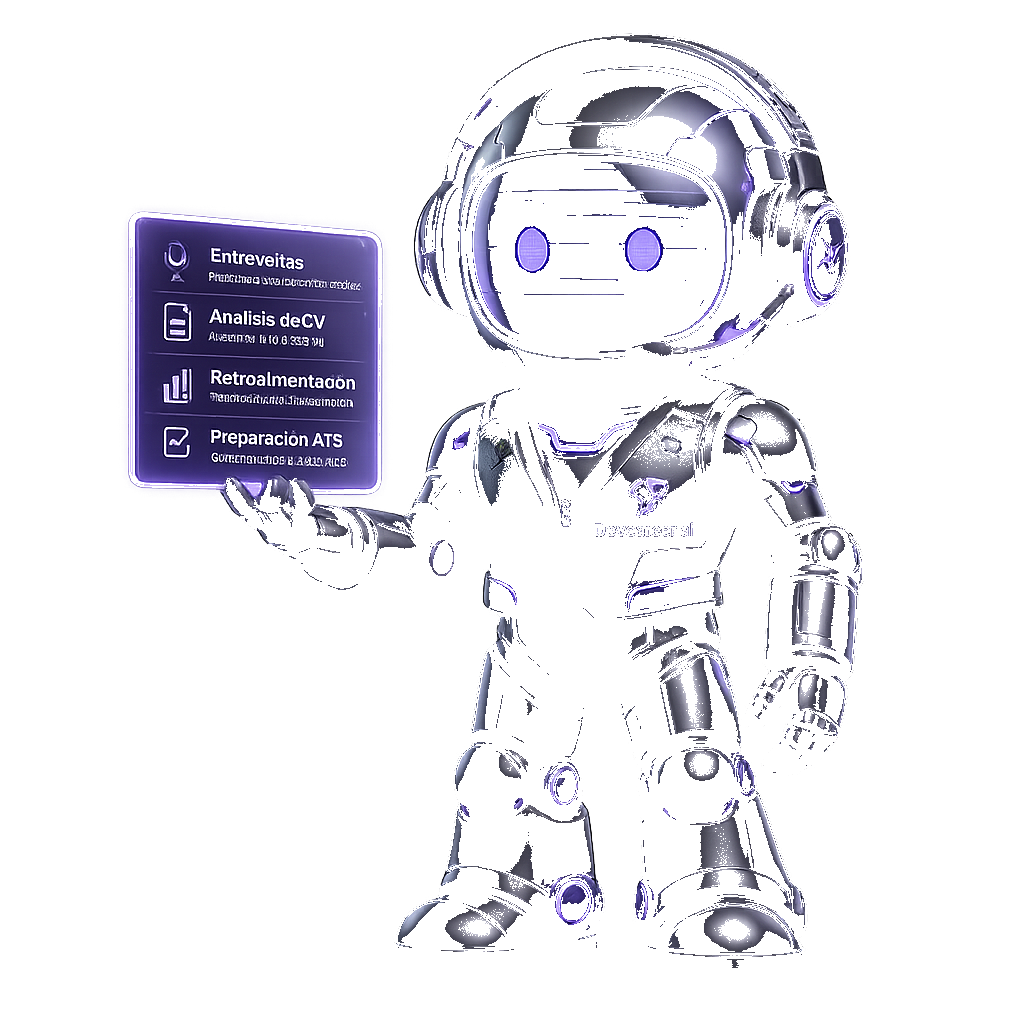
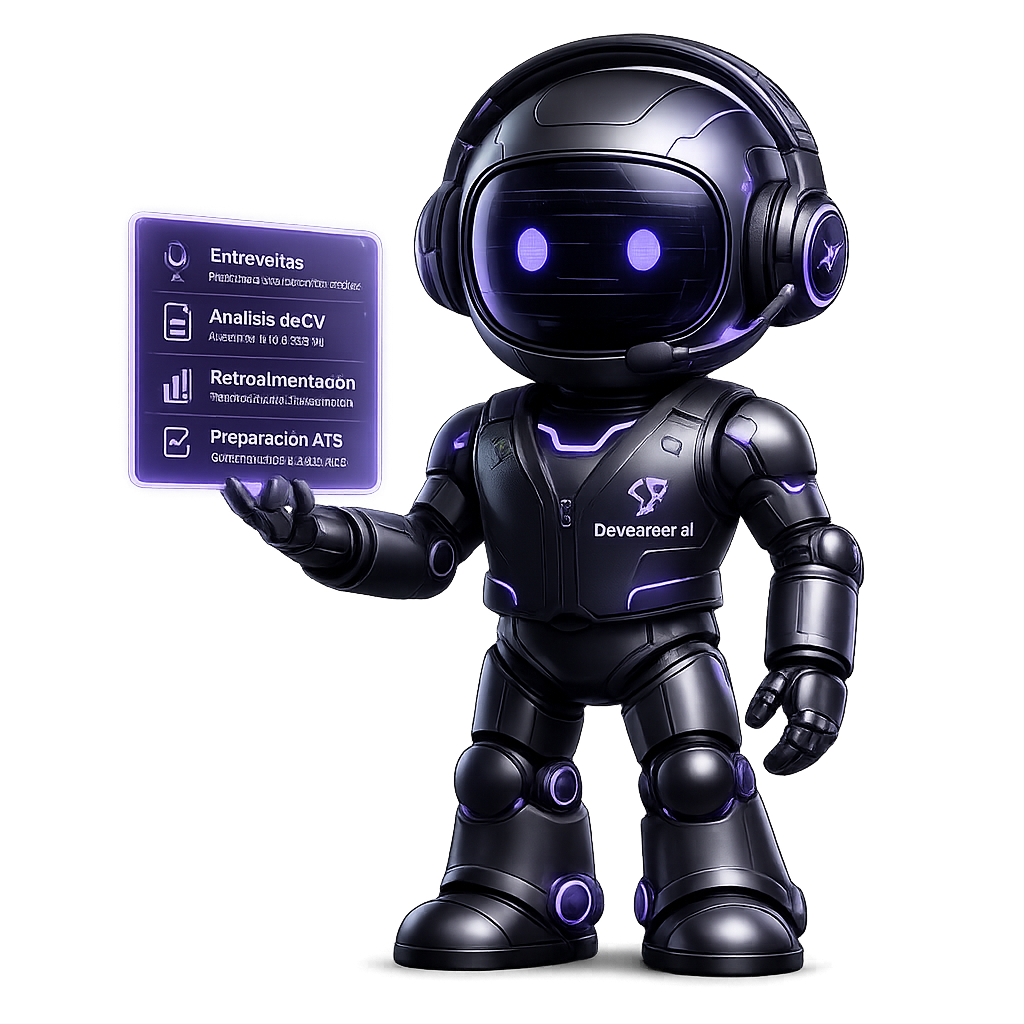
corrección de imagenes de robot y entrevistdor

Changed region(s): [[0.2188, 0.0312, 0.8438, 0.9688]]

diff --git a/app/(root)/dashboard/page.tsx b/app/(root)/dashboard/page.tsx
@@ -59,7 +59,7 @@ const Page = async () => {
           </Button>
         </div>
         <Image
-          src="/Robotv2.png"
+          src="/Robotv3.png"
           alt="AI Robot DevCareer"
           width={550}
           height={550}

diff --git a/components/Agent.tsx b/components/Agent.tsx
@@ -137,7 +137,7 @@ const Agent = ({
         <div className="card-interviewer">
           <div className="avatar">
             <Image
-              src="/ai-avatar_v2.png"
+              src="/ai-avatar_v3.png"
               alt="vapi"
               width={120}
               height={120}